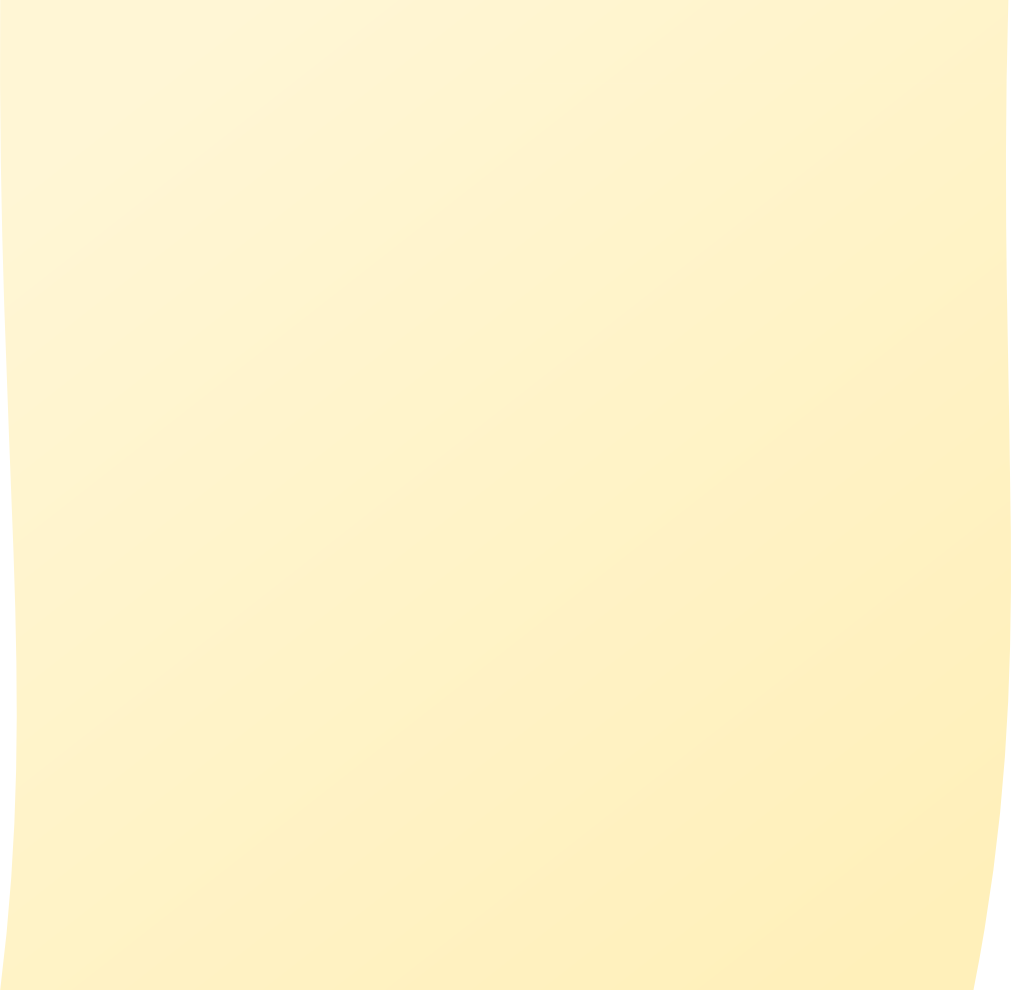
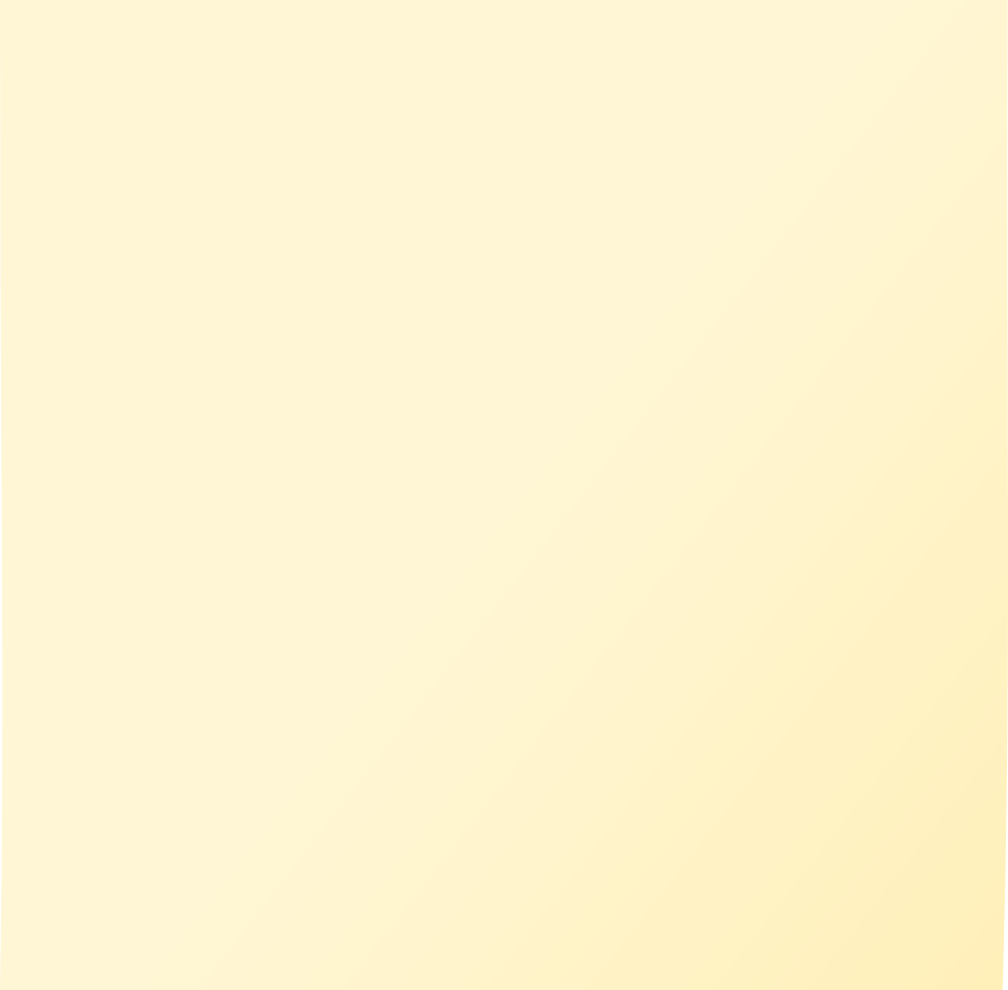
Delete them damn notes!

Changed region(s): [[0.0, 0.303, 0.0308, 0.9697], [0.9841, 0.0, 1.0, 0.4545], [0.9534, 0.6667, 1.0, 1.0]]

diff --git a/Project Pink/src/main/webapp/VAADIN/themes/pinktheme/pinktheme.scss b/Project Pink/src/main/webapp/VAADIN/themes/pinktheme/pinktheme.scss
@@ -21,4 +21,16 @@
 		font-style: italic;
 		padding-bottom: 0.6em;
 	}
+
+	.v-slot-p-note .v-label {
+		white-space: pre-wrap;
+	}
+
+	.v-slot-p-note .v-button {
+		float: right;
+		width: 2em;
+		height: 2em;
+		background: url(img/delete.png) no-repeat;
+		background-size: 100% 100%;
+	}
 }

diff --git a/Project Pink/src/main/java/ch/bfh/bti7081/s2013/pink/model/HibernateDataSource.java b/Project Pink/src/main/java/ch/bfh/bti7081/s2013/pink/model/HibernateDataSource.java
@@ -107,30 +107,28 @@ public class HibernateDataSource {
 		return result;
 	}
 
-    public List<ch.bfh.bti7081.s2013.pink.model.Session> getSessionsByName(String name)
-    {
-        Session session = sessionFactory.openSession();
-        session.beginTransaction();
+	public List<ch.bfh.bti7081.s2013.pink.model.Session> getSessionsByName(
+			String name) {
+		Session session = sessionFactory.openSession();
+		session.beginTransaction();
 
-        Criteria crit = session.createCriteria(ch.bfh.bti7081.s2013.pink.model.Session.class);
-        if (name != null)
-        {
-            crit = crit
-                    .createCriteria("patient")
-                    .add(
-                        Restrictions.or(
-                            Restrictions.ilike("name", name, MatchMode.ANYWHERE),
-                            Restrictions.ilike("firstName", name, MatchMode.ANYWHERE)));
+		Criteria crit = session
+				.createCriteria(ch.bfh.bti7081.s2013.pink.model.Session.class);
+		if (name != null) {
+			crit = crit.createCriteria("patient").add(
+					Restrictions.or(Restrictions.ilike("name", name,
+							MatchMode.ANYWHERE), Restrictions.ilike(
+							"firstName", name, MatchMode.ANYWHERE)));
 
-        }
-        @SuppressWarnings("unchecked")
-        List<ch.bfh.bti7081.s2013.pink.model.Session> result = crit.list();
+		}
+		@SuppressWarnings("unchecked")
+		List<ch.bfh.bti7081.s2013.pink.model.Session> result = crit.list();
 
-        session.getTransaction().commit();
-        session.close();
+		session.getTransaction().commit();
+		session.close();
 
-        return result;
-    }
+		return result;
+	}
 
 	/**
 	 * @param name
@@ -172,6 +170,27 @@ public class HibernateDataSource {
 		session.getTransaction().commit();
 		session.close();
 		return entity;
+	}
+
+	public <T> T reload(T entity) {
+		Session session = sessionFactory.openSession();
+		session.beginTransaction();
+		
+		session.refresh(entity);
+		
+		session.getTransaction().commit();
+		session.close();
+		return entity;
+	}
+
+	public void remove(Object entity) {
+		Session session = sessionFactory.openSession();
+		session.beginTransaction();
+
+		session.delete(entity);
+
+		session.getTransaction().commit();
+		session.close();
 	}
 
 	/**

diff --git a/Project Pink/src/main/java/ch/bfh/bti7081/s2013/pink/view/SessionOverView.java b/Project Pink/src/main/java/ch/bfh/bti7081/s2013/pink/view/SessionOverView.java
@@ -5,7 +5,7 @@ import java.util.List;
 import javax.swing.event.ChangeEvent;
 import javax.swing.event.ChangeListener;
 
-import ch.bfh.bti7081.s2013.pink.MyVaadinUI;
+import ch.bfh.bti7081.s2013.pink.model.Doctor;
 import ch.bfh.bti7081.s2013.pink.model.HibernateDataSource;
 import ch.bfh.bti7081.s2013.pink.model.Session;
 import ch.bfh.bti7081.s2013.pink.model.TestDataSource;
@@ -51,39 +51,23 @@ public class SessionOverView extends NavigationView {
 		setContent(layout);
 
 		// Toolbar
-		Button test = new Button(null, new Button.ClickListener() {
-			private static final long serialVersionUID = -261072762324902276L;
-
-			@Override
-			public void buttonClick(ClickEvent event) {
-				new TestDataSource().clearTableAndCreateTestData();
-			}
-		});
-		test.setIcon(new ClassResource("/images/mascot.png"));
-		Toolbar toolbar = new Toolbar();
-
-		List<Session> sessions = HibernateDataSource.getInstance().findAll(
-				Session.class);
-		if (sessions.size() == 0) {
+		List<Doctor> doctors = HibernateDataSource.getInstance().findAll(
+				Doctor.class);
+		if (doctors.size() == 0) {
 			// allow creating test data
-			toolbar.addComponent(test);
-		} else {
-			final Session dummySession = sessions.get(0);
-			Button prescriptionDummy = new Button("Medical Prescription Dummy",
-					new Button.ClickListener() {
-						private static final long serialVersionUID = 5381750326390188015L;
+			Button test = new Button(null, new Button.ClickListener() {
+				private static final long serialVersionUID = -261072762324902276L;
 
-						@Override
-						public void buttonClick(ClickEvent event) {
-							// Open Search
-							MedicalPrescriptionView mpv = new MedicalPrescriptionView(
-									dummySession);
-							MyVaadinUI.getNavigationManager().navigateTo(mpv);
-						}
-					});
-			prescriptionDummy.setIcon(new ClassResource("/images/mascot.png"));
-			toolbar.addComponent(prescriptionDummy);
+				@Override
+				public void buttonClick(ClickEvent event) {
+					new TestDataSource().clearTableAndCreateTestData();
+				}
+			});
+			test.setIcon(new ClassResource("/images/mascot.png"));
+			Toolbar toolbar = new Toolbar();
+
+			toolbar.addComponent(test);
+			setToolbar(toolbar);
 		}
-		setToolbar(toolbar);
 	}
 }

diff --git a/Project Pink/src/main/java/ch/bfh/bti7081/s2013/pink/view/NotesView.java b/Project Pink/src/main/java/ch/bfh/bti7081/s2013/pink/view/NotesView.java
@@ -10,10 +10,13 @@ import ch.bfh.bti7081.s2013.pink.model.NoteHolder;
 import com.vaadin.addon.touchkit.ui.NavigationView;
 import com.vaadin.ui.Button;
 import com.vaadin.ui.Button.ClickEvent;
+import com.vaadin.ui.Button.ClickListener;
+import com.vaadin.ui.CustomComponent;
 import com.vaadin.ui.Label;
 import com.vaadin.ui.Layout;
 import com.vaadin.ui.TextArea;
 import com.vaadin.ui.VerticalLayout;
+import com.vaadin.ui.themes.BaseTheme;
 
 public class NotesView extends NavigationView {
 	private static final long serialVersionUID = -6257562003847635377L;
@@ -46,6 +49,7 @@ public class NotesView extends NavigationView {
 				Note note = ds.saveOrUpdate(new Note(noteText.getValue()));
 				noteHolder.addNote(note);
 				ds.saveOrUpdate(noteHolder);
+				noteText.setValue("");
 				notes.removeAllComponents();
 				updateNotes();
 			}
@@ -63,13 +67,34 @@ public class NotesView extends NavigationView {
 
 	private DateFormat df = new SimpleDateFormat();
 
-	private class NoteView extends Label {
+	private class NoteView extends CustomComponent {
 		private static final long serialVersionUID = -6439006060532901266L;
 
-		public NoteView(Note note) {
+		public NoteView(final Note note) {
 			setStyleName("p-note");
-			setCaption(df.format(note.getTimestamp()));
-			setValue(note.getText());
+			Label label = new Label();
+			label.setCaption(df.format(note.getTimestamp()));
+			label.setValue(note.getText());
+			VerticalLayout layout = new VerticalLayout();
+			layout.addComponent(label);
+			Button removeButton = new Button();
+			removeButton.setWidth("20px");
+			removeButton.setHeight("20px");
+			removeButton.setStyleName(BaseTheme.BUTTON_LINK);
+			removeButton.addClickListener(new ClickListener() {
+				private static final long serialVersionUID = 5650763451236883119L;
+
+				@Override
+				public void buttonClick(ClickEvent event) {
+					noteHolder.getNotes().remove(note);
+					noteHolder = ds.saveOrUpdate(noteHolder);
+					ds.remove(note);
+					notes.removeAllComponents();
+					updateNotes();
+				}
+			});
+			layout.addComponent(removeButton);
+			setCompositionRoot(layout);
 		}
 	}
 }

diff --git a/Project Pink/src/main/java/ch/bfh/bti7081/s2013/pink/view/PatientDetailView.java b/Project Pink/src/main/java/ch/bfh/bti7081/s2013/pink/view/PatientDetailView.java
@@ -2,6 +2,7 @@ package ch.bfh.bti7081.s2013.pink.view;
 
 import ch.bfh.bti7081.s2013.pink.MyVaadinUI;
 import ch.bfh.bti7081.s2013.pink.model.Allergy;
+import ch.bfh.bti7081.s2013.pink.model.HibernateDataSource;
 import ch.bfh.bti7081.s2013.pink.model.MedicationPrescription;
 import ch.bfh.bti7081.s2013.pink.model.Patient;
 import ch.bfh.bti7081.s2013.pink.model.Warning;
@@ -117,6 +118,7 @@ public class PatientDetailView extends NavigationView {
 	@Override
 	protected void onBecomingVisible() {
 		super.onBecomingVisible();
+		patient = HibernateDataSource.getInstance().reload(patient);
 		for (Warning warning : patient.getWarnings()) {
 			Notification.show(warning.getText(), Type.WARNING_MESSAGE);
 		}

diff --git a/Project Pink/src/main/java/ch/bfh/bti7081/s2013/pink/view/PatientOverview.java b/Project Pink/src/main/java/ch/bfh/bti7081/s2013/pink/view/PatientOverview.java
@@ -85,7 +85,8 @@ public class PatientOverview extends CustomComponent {
 		sessionBegin.setCaption("Session begin:");
 		sessionBegin.setImmediate(false);
 		String startTime = dateFormat.format(session.getTimeStart());
-		sessionBegin.setValue(startTime);
+		sessionBegin.setValue(startTime + " (" + session.getSessionState()
+				+ ")");
 		text.addComponent(sessionBegin);
 
 		// Adds the button to start the patient session
